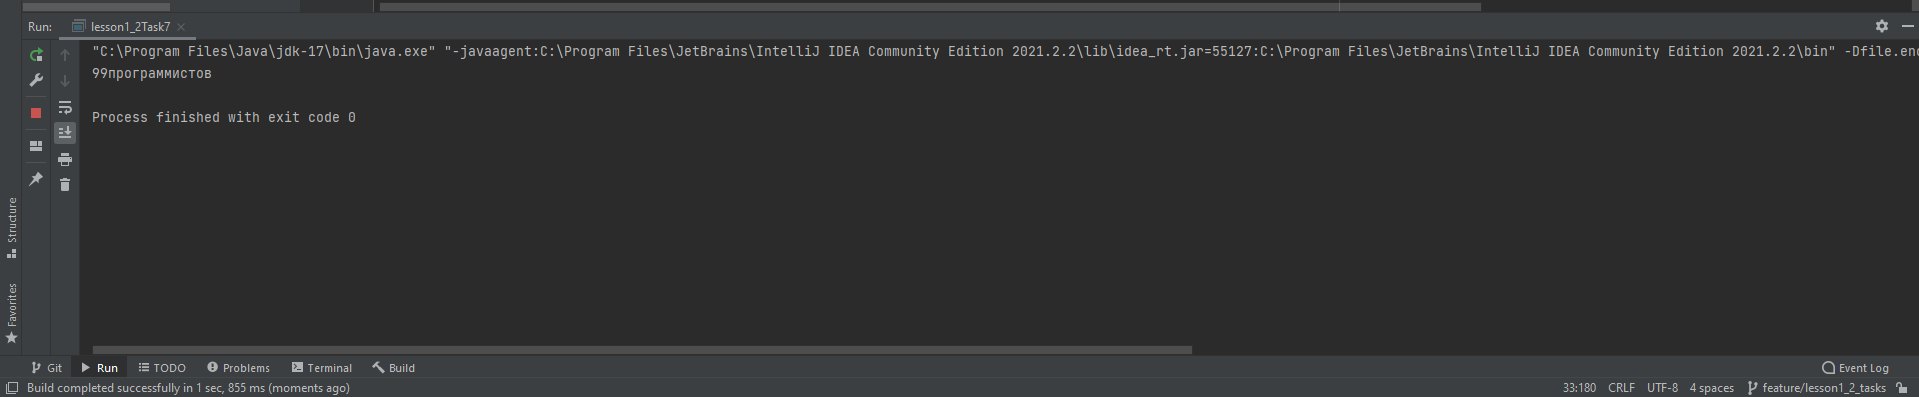
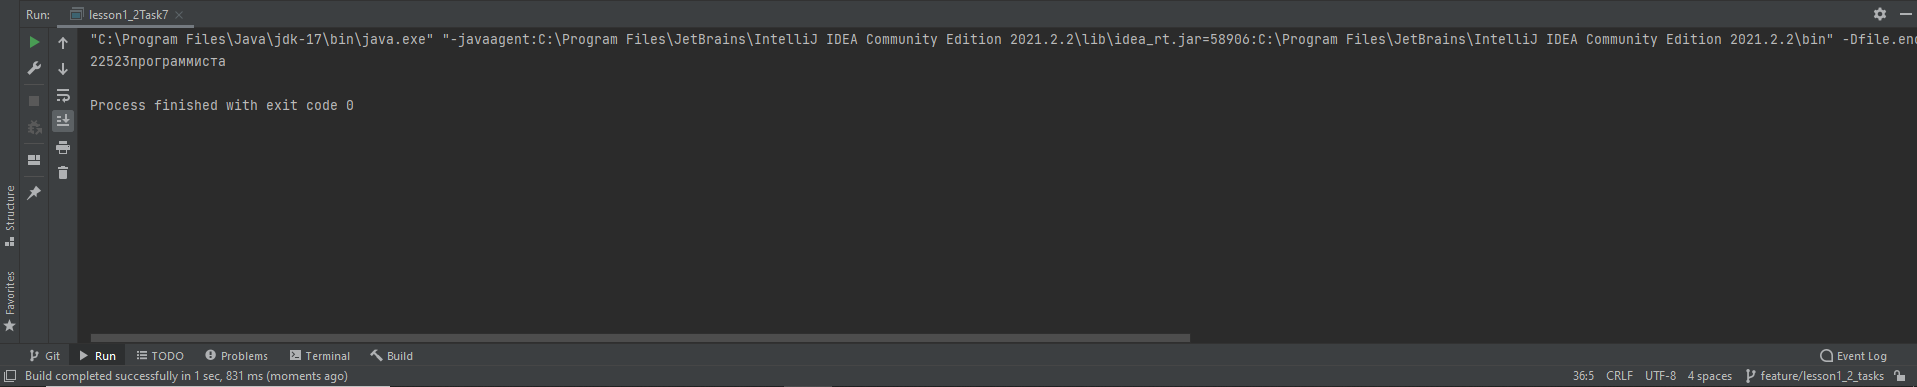
Completed tasks Lesson1_2 homework

diff --git a/src/lesson1_2/lesson1_2Task7.java b/src/lesson1_2/lesson1_2Task7.java
@@ -14,20 +14,29 @@
 public class lesson1_2Task7 {
     public static void main(String[] args) {
 
-        int programmer = 99;
+       int programmer = 22523;
 
         if (programmer % 10 == 1 || programmer % 100 == 1){
             System.out.println(programmer + "программист");
         }
-        if (programmer % 10 == 2 || programmer % 100 == 2 || programmer % 10 == 3 || programmer % 100 == 3 || programmer % 10 == 4 || programmer % 100 == 4){
+        else if (programmer % 10 == 2 || programmer % 100 == 2 ||
+            programmer % 10 == 3 || programmer % 100 == 3 ||
+            programmer % 10 == 4 || programmer % 100 == 4){
             System.out.println(programmer +"программиста");
         }
-        if (programmer % 10 == 11 || programmer % 100 == 11 || programmer % 10 == 12 || programmer % 100 == 12 || programmer % 10 == 13 || programmer % 100 == 13 || programmer % 10 == 14 || programmer % 100 == 14){
+        else if (programmer % 10 == 11 || programmer % 100 == 11 ||
+            programmer % 10 == 12 || programmer % 100 == 12 ||
+            programmer % 10 == 13 || programmer % 100 == 13 ||
+            programmer % 10 == 14 || programmer % 100 == 14){
             System.out.println(programmer +"программистов");
         }
-        else if (programmer % 10 == 5 || programmer % 100 == 5 || programmer % 10 == 6 || programmer % 100 == 6 || programmer % 10 == 7 || programmer % 100 == 7 || programmer % 10 == 8 || programmer % 100 == 8 || programmer % 10 == 9 || programmer % 100 == 9) {
+        else {
             System.out.println(programmer + "программистов");
         }
-        }
-}
-/** В общем и получилось,и как бы нет я считаю.Хотелось бы услышать ваши коментарии по поводу укорочения кода,и я так понимаю если числа больше ста то работать ничего не будет. */
+    }
+    }
+
+
+
+
+
